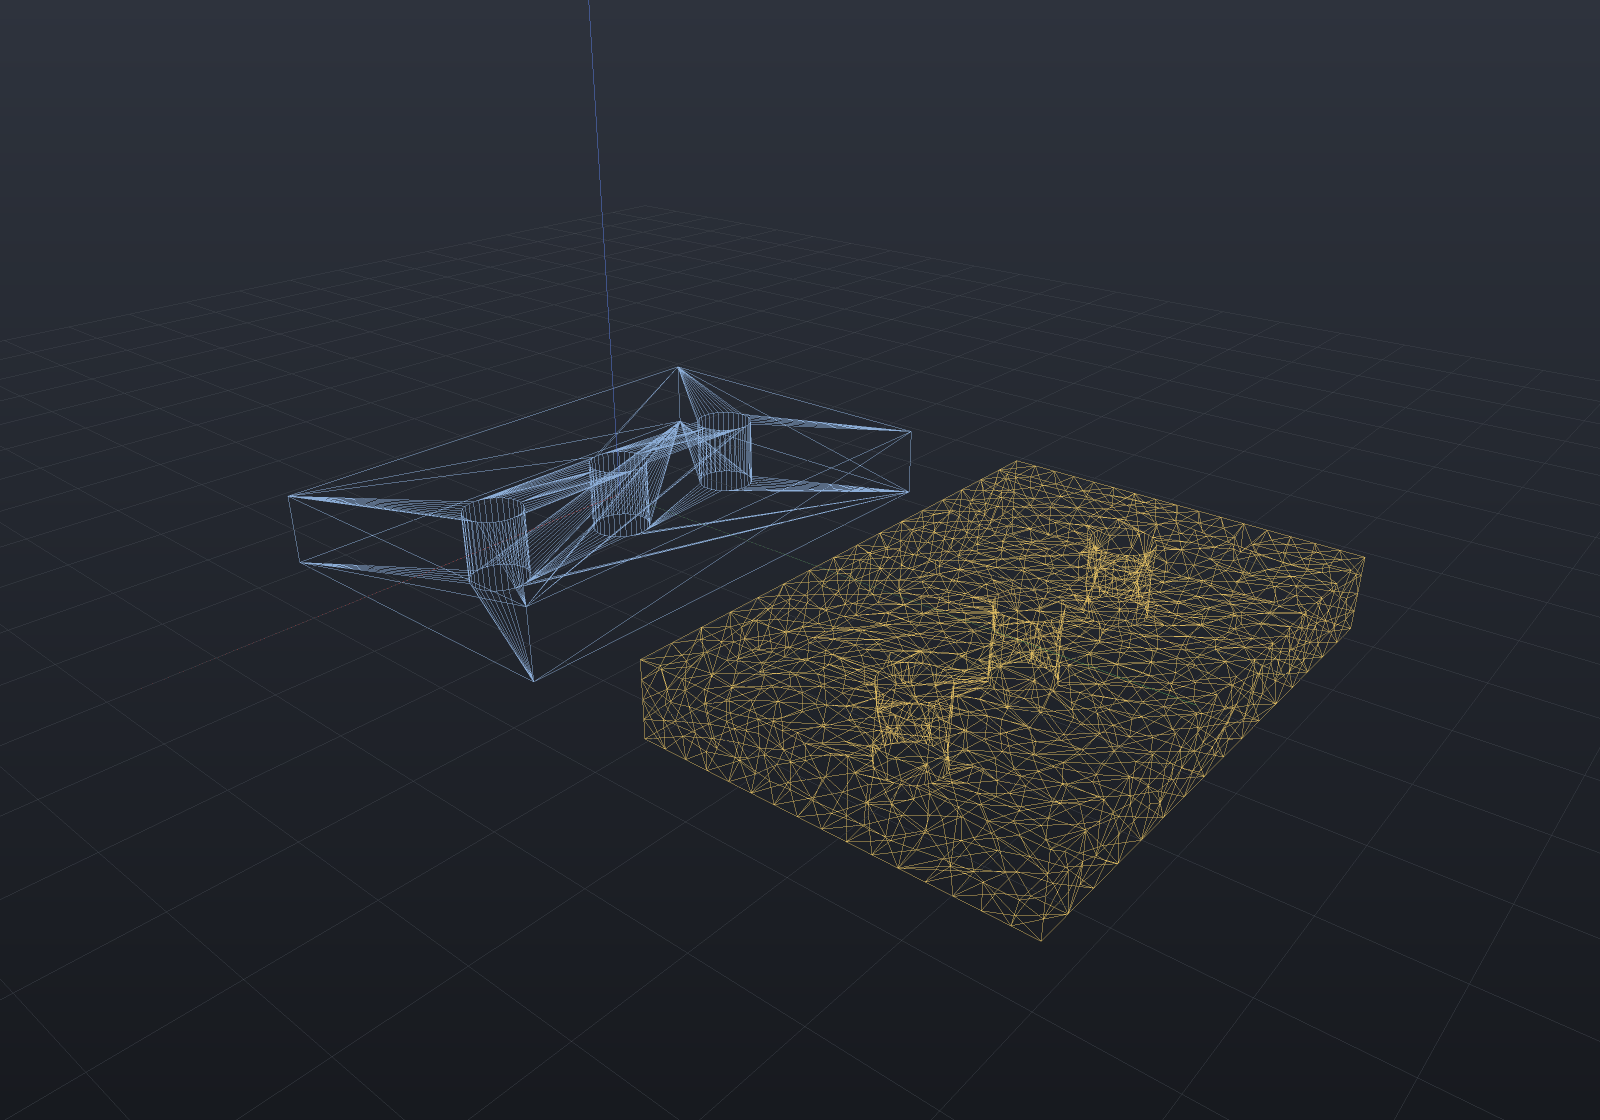
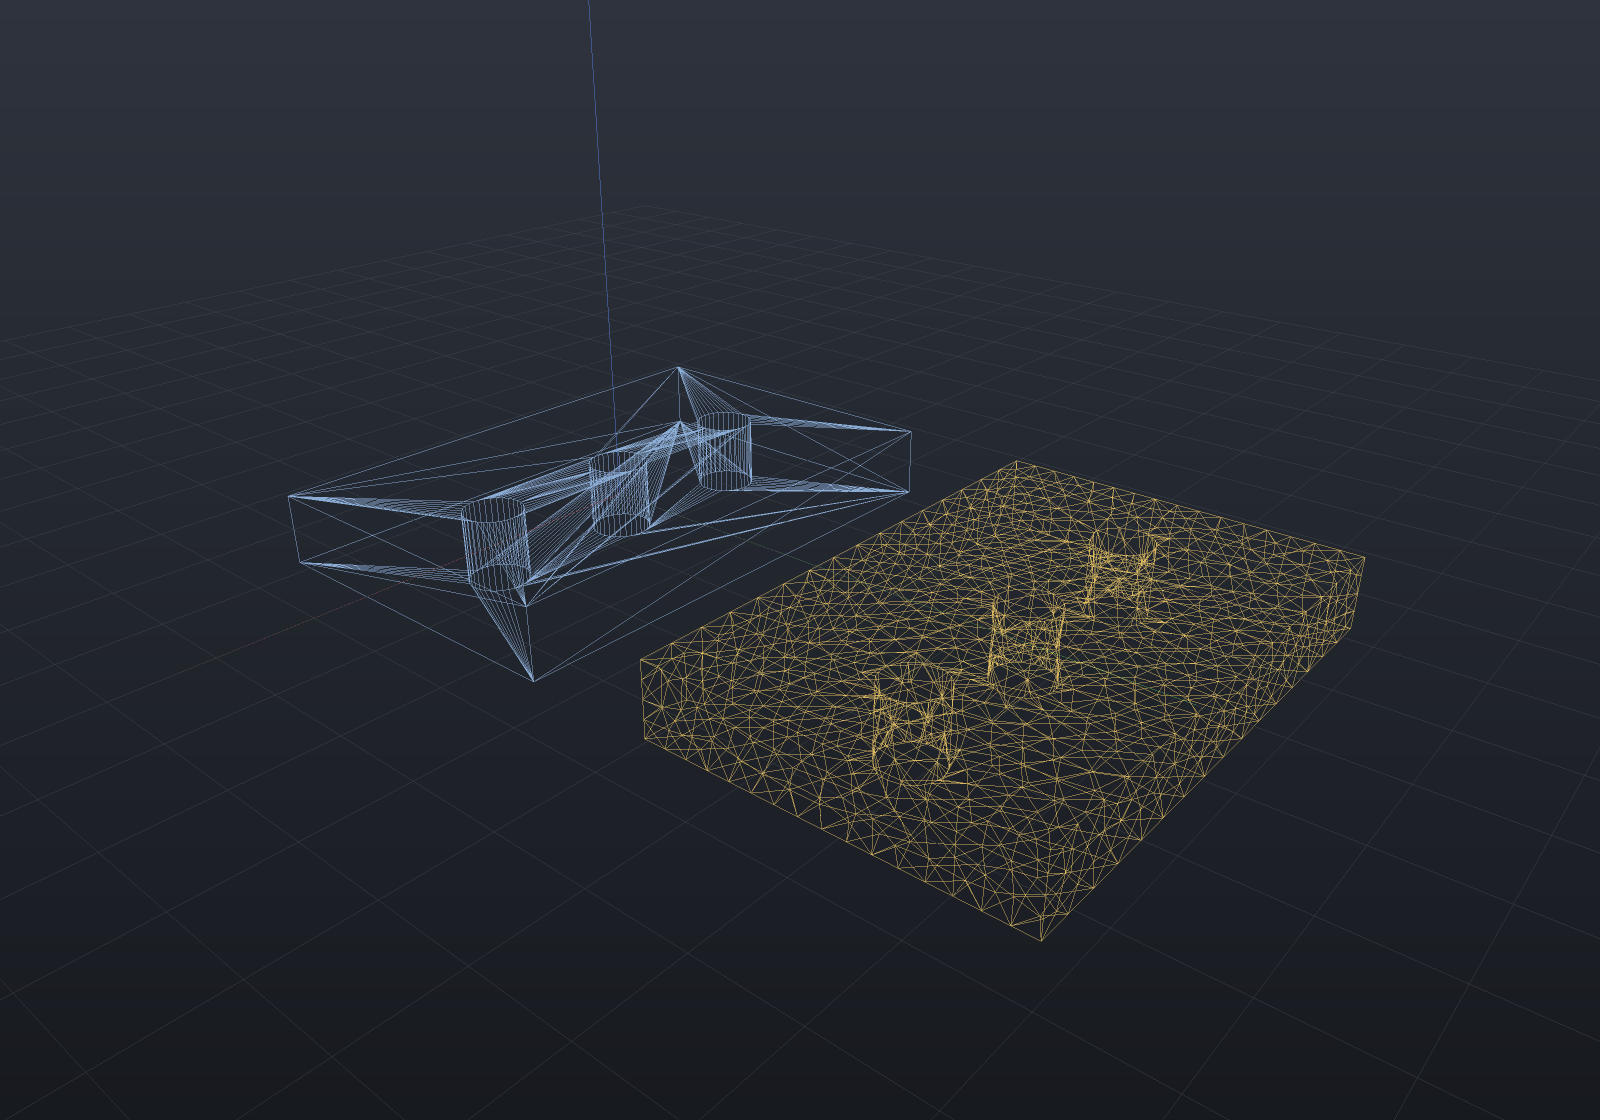
Correct the flip-guard claim: one extremum DOES trade, and it is the share-vs-extremes lesson
Verifying the moved docs render caught an over-claim in the previous commit. On the
drilled plate the remeshing docs page renders — bore rims are pinned crease chains far
finer than the 3 mm target, so they cannot be coarsened — the guard keeps a single 0.01
degree free triangle at 10/14/20/30 passes where the unguarded run reads 0.09/1.40/1.66/
1.98, all slivers either way. Every POPULATION figure on that same fixture goes the other
way by a wide margin (slivers 588/419/349/286 -> 184/157/156/152, out of band 17.4-10.6%
-> 8.4-7.6%, longest edge 2.51-2.14 -> 1.83-1.49 L), so the decision stands, but "every
measure improves and none trades" did not survive its own fixture.

It is the project's own "judge a remesh by the share in band, never by its extremes"
lesson reappearing one level up, for SHAPE this time: compare SliverCount, and use
MinAngleDegrees to LOCATE a defect rather than to rank two meshes. The test now asserts
the sliver count as the general claim and keeps the worst-angle assertion labelled as
fixture-specific.

The one committed render that moved is docs/examples/images/remesh-plate.png, the only
one that goes through Shape.Remeshed. Same solid: bounds 60 x 40 x 8 unchanged, volume
18452.90 -> 18454.13 (6.7e-5 relative), silhouette unchanged; what moved is the
triangulation the figure exists to show - 2424 -> 2232 faces, longest edge 2.56 -> 1.49 L,
14.1% -> 7.5% out of band, 419 -> 157 slivers. It is a better picture of what the page
[…]

Changed region(s): [[0.4062, 0.4062, 0.8438, 0.8438]]

diff --git a/tests/EngrCAD.Mesh.Tests/RemesherTests.cs b/tests/EngrCAD.Mesh.Tests/RemesherTests.cs
@@ -837,14 +837,19 @@ public class RemesherTests
         // And it is not bought from the distribution — the in-band share improves too.
         Assert.True(FractionOutsideBand(bounded.Mesh, options) <=
                     FractionOutsideBand(baseline.Mesh, options));
-        // Nor from SHAPE, which is what settled making it the default: the worst free triangle
-        // angle improves on every fixture (0.14 -> 31.69 on the box, 0.20 -> 29.19 on the
-        // cylinder at 32 segments, 5.21 -> 30.93 on the sphere), where the filed blocker had
-        // recorded a cylinder regression that does not reproduce at any density or pass count.
+        // Nor from SHAPE, which is what settled making it the default. The SLIVER COUNT is the
+        // general claim and the one asserted as such; the worst single angle also improves on
+        // all three of these fixtures (0.14 -> 31.69 on the box, 0.20 -> 29.19 on the cylinder,
+        // 5.21 -> 30.93 on the sphere) but is an EXTREMUM and does not generalize — on a
+        // drilled plate, whose bore rims are pinned chains finer than the target and so cannot
+        // be coarsened, the guard keeps a 0.01 degree triangle where the baseline reads 1.40
+        // while cutting slivers 419 -> 157. Judge by the share, not the extremes; see
+        // RemeshOptions.PreventLongEdgeFlips.
+        Assert.True(bounded.Quality.SliverCount < baseline.Quality.SliverCount,
+            $"slivers {bounded.Quality.SliverCount} should beat {baseline.Quality.SliverCount}");
         Assert.True(bounded.Quality.MinAngleDegrees > baseline.Quality.MinAngleDegrees,
-            $"shape should improve too: {bounded.Quality.MinAngleDegrees:F2} against " +
-            $"{baseline.Quality.MinAngleDegrees:F2} degrees");
-        Assert.True(bounded.Quality.SliverCount <= baseline.Quality.SliverCount);
+            $"on these three fixtures the extremum improves too: {bounded.Quality.MinAngleDegrees:F2} " +
+            $"against {baseline.Quality.MinAngleDegrees:F2} degrees");
         bounded.Mesh.Validate();
         AssertAllTriangles(bounded.Mesh);
     }
@@ -901,10 +906,13 @@ public class RemesherTests
     /// <summary>
     /// <b>On by default</b>, decided on measurement after shipping opt-in. Over a box, a
     /// cylinder, two UV spheres and an open height-field grid at 10 / 14 / 40 passes every
-    /// measure improves and none trades — maximum, shortest edge, in-band share, worst free
-    /// angle, worst radius ratio, sliver count and run time — and the filed counter-example
-    /// (a cylinder's worst angle 0.89° → 0.58°) does not reproduce at 32, 48 or 64 segments
-    /// at any of nine pass counts. The deciding argument is downstream: <c>TetMesher</c>'s
+    /// measure improves — maximum, shortest edge, in-band share, worst free angle, worst
+    /// radius ratio, sliver count and run time — and the filed counter-example (a cylinder's
+    /// worst angle 0.89° → 0.58°) does not reproduce at 32, 48 or 64 segments at any of nine
+    /// pass counts. On a heavily pinned model the worst single ANGLE can go the other way
+    /// while every population figure improves (a drilled plate: 1.40° → 0.01° against slivers
+    /// 419 → 157), which is the extremes-versus-share lesson, not a trade in the mesh's
+    /// favour. The deciding argument is downstream: <c>TetMesher</c>'s
     /// boundary recovery needs a Delaunay-clean surface and a valence flip can replace a
     /// Delaunay diagonal with a longer one, so the old default produced surfaces the
     /// project's own tet mesher refuses.

diff --git a/src/EngrCAD.Mesh/Remesher.cs b/src/EngrCAD.Mesh/Remesher.cs
@@ -182,14 +182,27 @@ public sealed record RemeshOptions(double TargetEdgeLength)
     /// <para>
     /// <b>It shipped opt-in and became the default on measurement, and the numbers are the
     /// argument.</b> Over a box, a cylinder, two UV spheres and an open height-field grid at
-    /// 10 / 14 / 40 passes, <i>every</i> measure improves and none trades — maximum 1.37–2.65
-    /// → 1.27–1.67 L, shortest 0.03–0.26 → 0.10–0.67 L, out of band 2.5–11.8% → 0.0–0.9%,
-    /// worst free triangle angle 0.24–17.1° → 22.8–36.3°, worst radius ratio 0.0001–0.30 →
-    /// 0.38–0.81, slivers 4–226 → 0–7 — and the run is <i>faster</i> every time (a box at
-    /// 10 passes, 79 ms → 22 ms), because a mesh full of slivers is a mesh full of work.
-    /// The one filed counter-example, a cylinder whose worst triangle angle was said to go
-    /// 0.89° → 0.58°, <b>does not reproduce</b>: swept over 32 / 48 / 64 segments and nine
-    /// pass counts it reads 0.20 → 29.19, 0.03 → 0.11 and 0.24 → 2.81, better in all 27 rows.
+    /// 10 / 14 / 40 passes, <i>every</i> measure improves — maximum 1.37–2.65 → 1.27–1.67 L,
+    /// shortest 0.03–0.26 → 0.10–0.67 L, out of band 2.5–11.8% → 0.0–0.9%, worst free
+    /// triangle angle 0.24–17.1° → 22.8–36.3°, worst radius ratio 0.0001–0.30 → 0.38–0.81,
+    /// slivers 4–226 → 0–7 — and the run is <i>faster</i> every time (a box at 10 passes,
+    /// 79 ms → 22 ms), because a mesh full of slivers is a mesh full of work. The one filed
+    /// counter-example, a cylinder whose worst triangle angle was said to go 0.89° → 0.58°,
+    /// <b>does not reproduce</b>: swept over 32 / 48 / 64 segments and nine pass counts it
+    /// reads 0.20 → 29.19, 0.03 → 0.11 and 0.24 → 2.81, better in all 27 rows.
+    /// </para>
+    /// <para>
+    /// <b>One measure does trade on a heavily pinned model, and it is an extremum rather than
+    /// a population.</b> A 60 × 40 × 8 plate with three drilled bores — whose rim chains are
+    /// pinned creases far finer than the target, so they cannot be coarsened — keeps a single
+    /// 0.01° free triangle against a bore at 10 / 14 / 20 / 30 passes where the unguarded run
+    /// reads 0.09 / 1.40 / 1.66 / 1.98°, all of them slivers either way. Every population
+    /// figure on the same fixture goes the other way and by a wide margin: slivers
+    /// 588 / 419 / 349 / 286 → 184 / 157 / 156 / 152, out of band 17.4–10.6% → 8.4–7.6%,
+    /// longest edge 2.51–2.14 → 1.83–1.49 L. That is the project's own "judge a remesh by the
+    /// share in band, never by its extremes" lesson reappearing for SHAPE, which is why
+    /// <see cref="TriangleQualityReport.SliverCount"/> is the figure to compare and
+    /// <see cref="TriangleQualityReport.MinAngleDegrees"/> is the one to locate a defect with.
     /// </para>
     /// <para>
     /// The deciding argument is downstream, though, and it arrived after the option did:

diff --git a/src/EngrCAD.Mesh/README.md b/src/EngrCAD.Mesh/README.md
@@ -604,9 +604,19 @@ traversal, metrics, algorithms, and GPU/export extraction. Depends only on
     It is a bound *approached over passes*, not a cap at pass one (a 4 L edge still needs two
     passes to halve twice), and the smoothing and projection stages run after the sweep and
     move vertices by their own damped step, so the end-of-pass maximum sits a fraction of a
-    percent over the threshold. **Nothing measured trades against it**, including the shortest
-    edge (0.03–0.26 → 0.10–0.67 L) and the run time — a mesh full of slivers is a mesh full of
-    work.
+    percent over the threshold. The shortest edge (0.03–0.26 → 0.10–0.67 L) and the run time
+    improve with everything else — a mesh full of slivers is a mesh full of work.
+  - **One measure does trade on a heavily pinned model, and it is an extremum rather than a
+    population — worth keeping, because it is the length lesson reappearing for shape.** The
+    docs page's 60 × 40 × 8 plate with three drilled bores has rim chains far finer than the
+    3 mm target which, being pinned creases, cannot be coarsened. It keeps a single **0.01°**
+    free triangle against a bore at 10 / 14 / 20 / 30 passes where the unguarded run reads
+    0.09 / 1.40 / 1.66 / 1.98° — all slivers either way. Every *population* figure on that same
+    fixture goes the other way by a wide margin: slivers 588 / 419 / 349 / 286 →
+    **184 / 157 / 156 / 152**, out of band 17.4–10.6% → **8.4–7.6%**, longest edge 2.51–2.14 →
+    **1.83–1.49 L**. So compare `TriangleQualityReport.SliverCount`, and use `MinAngleDegrees`
+    to *locate* a defect rather than to rank two meshes — exactly what "judge a remesh by the
+    share in band, never by its extremes" already says about length.
   - **The one filed counter-example does not reproduce**, and that is why the default moved.
     It recorded the cylinder's worst triangle angle going 0.89° → 0.58°; swept over 32 / 48 /
     64 segments and nine pass counts each, the same measure reads 0.20 → 29.19, 0.03 → 0.11

diff --git a/docs/examples/remeshing.md b/docs/examples/remeshing.md
@@ -84,11 +84,20 @@ if (bounded > 3.0) throw new Exception($"the default maximum should reach the ba
 ```
 
 It shipped opt-in and became the default on measurement. Over a box, a cylinder, two UV
-spheres and an open height-field grid at 10 / 14 / 40 passes, **every** measure improves
-and none trades: maximum 1.37–2.65 → 1.27–1.67 L, shortest edge 0.03–0.26 → 0.10–0.67 L,
-out of band 2.5–11.8% → 0.0–0.9%, worst triangle angle 0.24–17.1° → 22.8–36.3°, worst
-radius ratio 0.0001–0.30 → 0.38–0.81 — and the run is *faster* every time (a box at ten
-passes, 79 ms → 22 ms), because a mesh full of slivers is a mesh full of work.
+spheres and an open height-field grid at 10 / 14 / 40 passes, **every** measure improves:
+maximum 1.37–2.65 → 1.27–1.67 L, shortest edge 0.03–0.26 → 0.10–0.67 L, out of band
+2.5–11.8% → 0.0–0.9%, worst triangle angle 0.24–17.1° → 22.8–36.3°, worst radius ratio
+0.0001–0.30 → 0.38–0.81 — and the run is *faster* every time (a box at ten passes,
+79 ms → 22 ms), because a mesh full of slivers is a mesh full of work.
+
+One measure does trade on a heavily pinned model, and it is worth knowing because it is
+the *same* lesson as "judge by the share, not the extremes", one level up. The drilled
+plate at the top of this page has bore rims far finer than the 3 mm target which, being
+pinned creases, cannot be coarsened: it keeps a single **0.01°** triangle against a bore
+where the unguarded run reads 1.40°, both slivers. Every *population* figure on that
+fixture goes the other way and by a lot — slivers 419 → **157**, out of band 14.1% →
+**7.5%**, longest edge 2.56 → **1.49 L**. Compare sliver *counts*; use the worst angle to
+find a defect, not to rank two meshes.
 
 The deciding argument is downstream, though: [tet meshing](fea-meshing.md)'s boundary
 recovery needs a surface that is already the boundary of the Delaunay tetrahedralization
